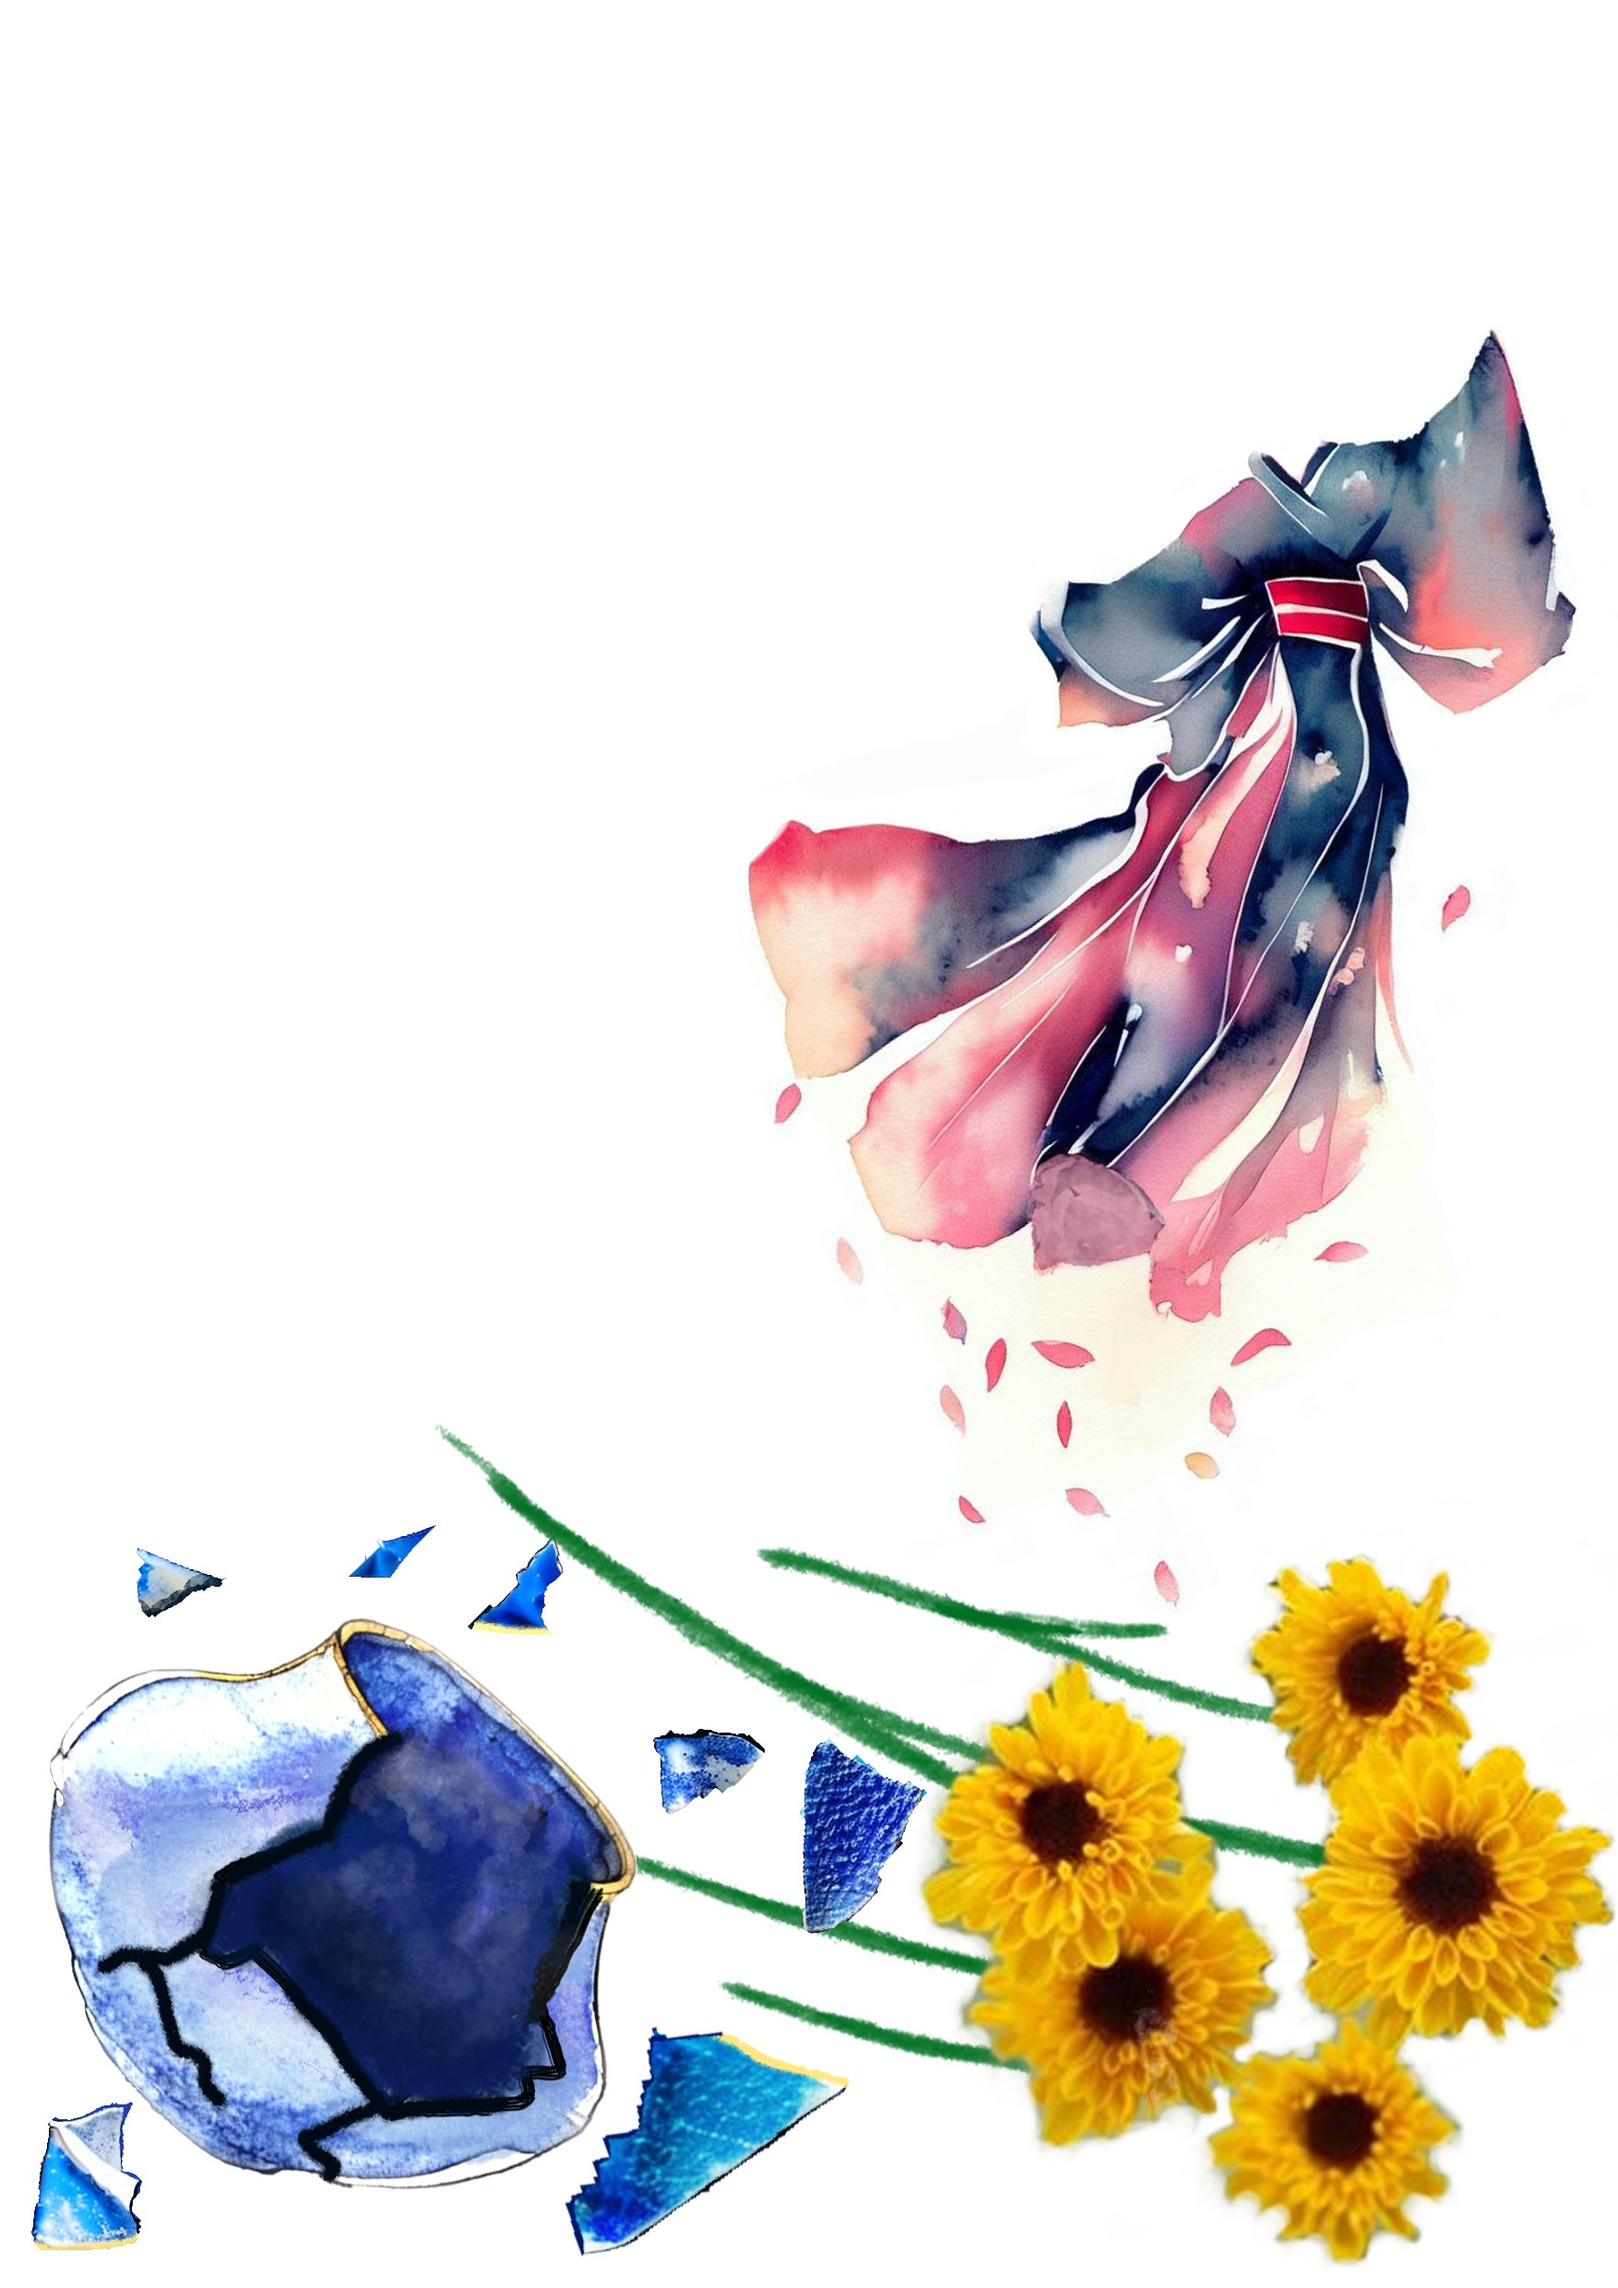
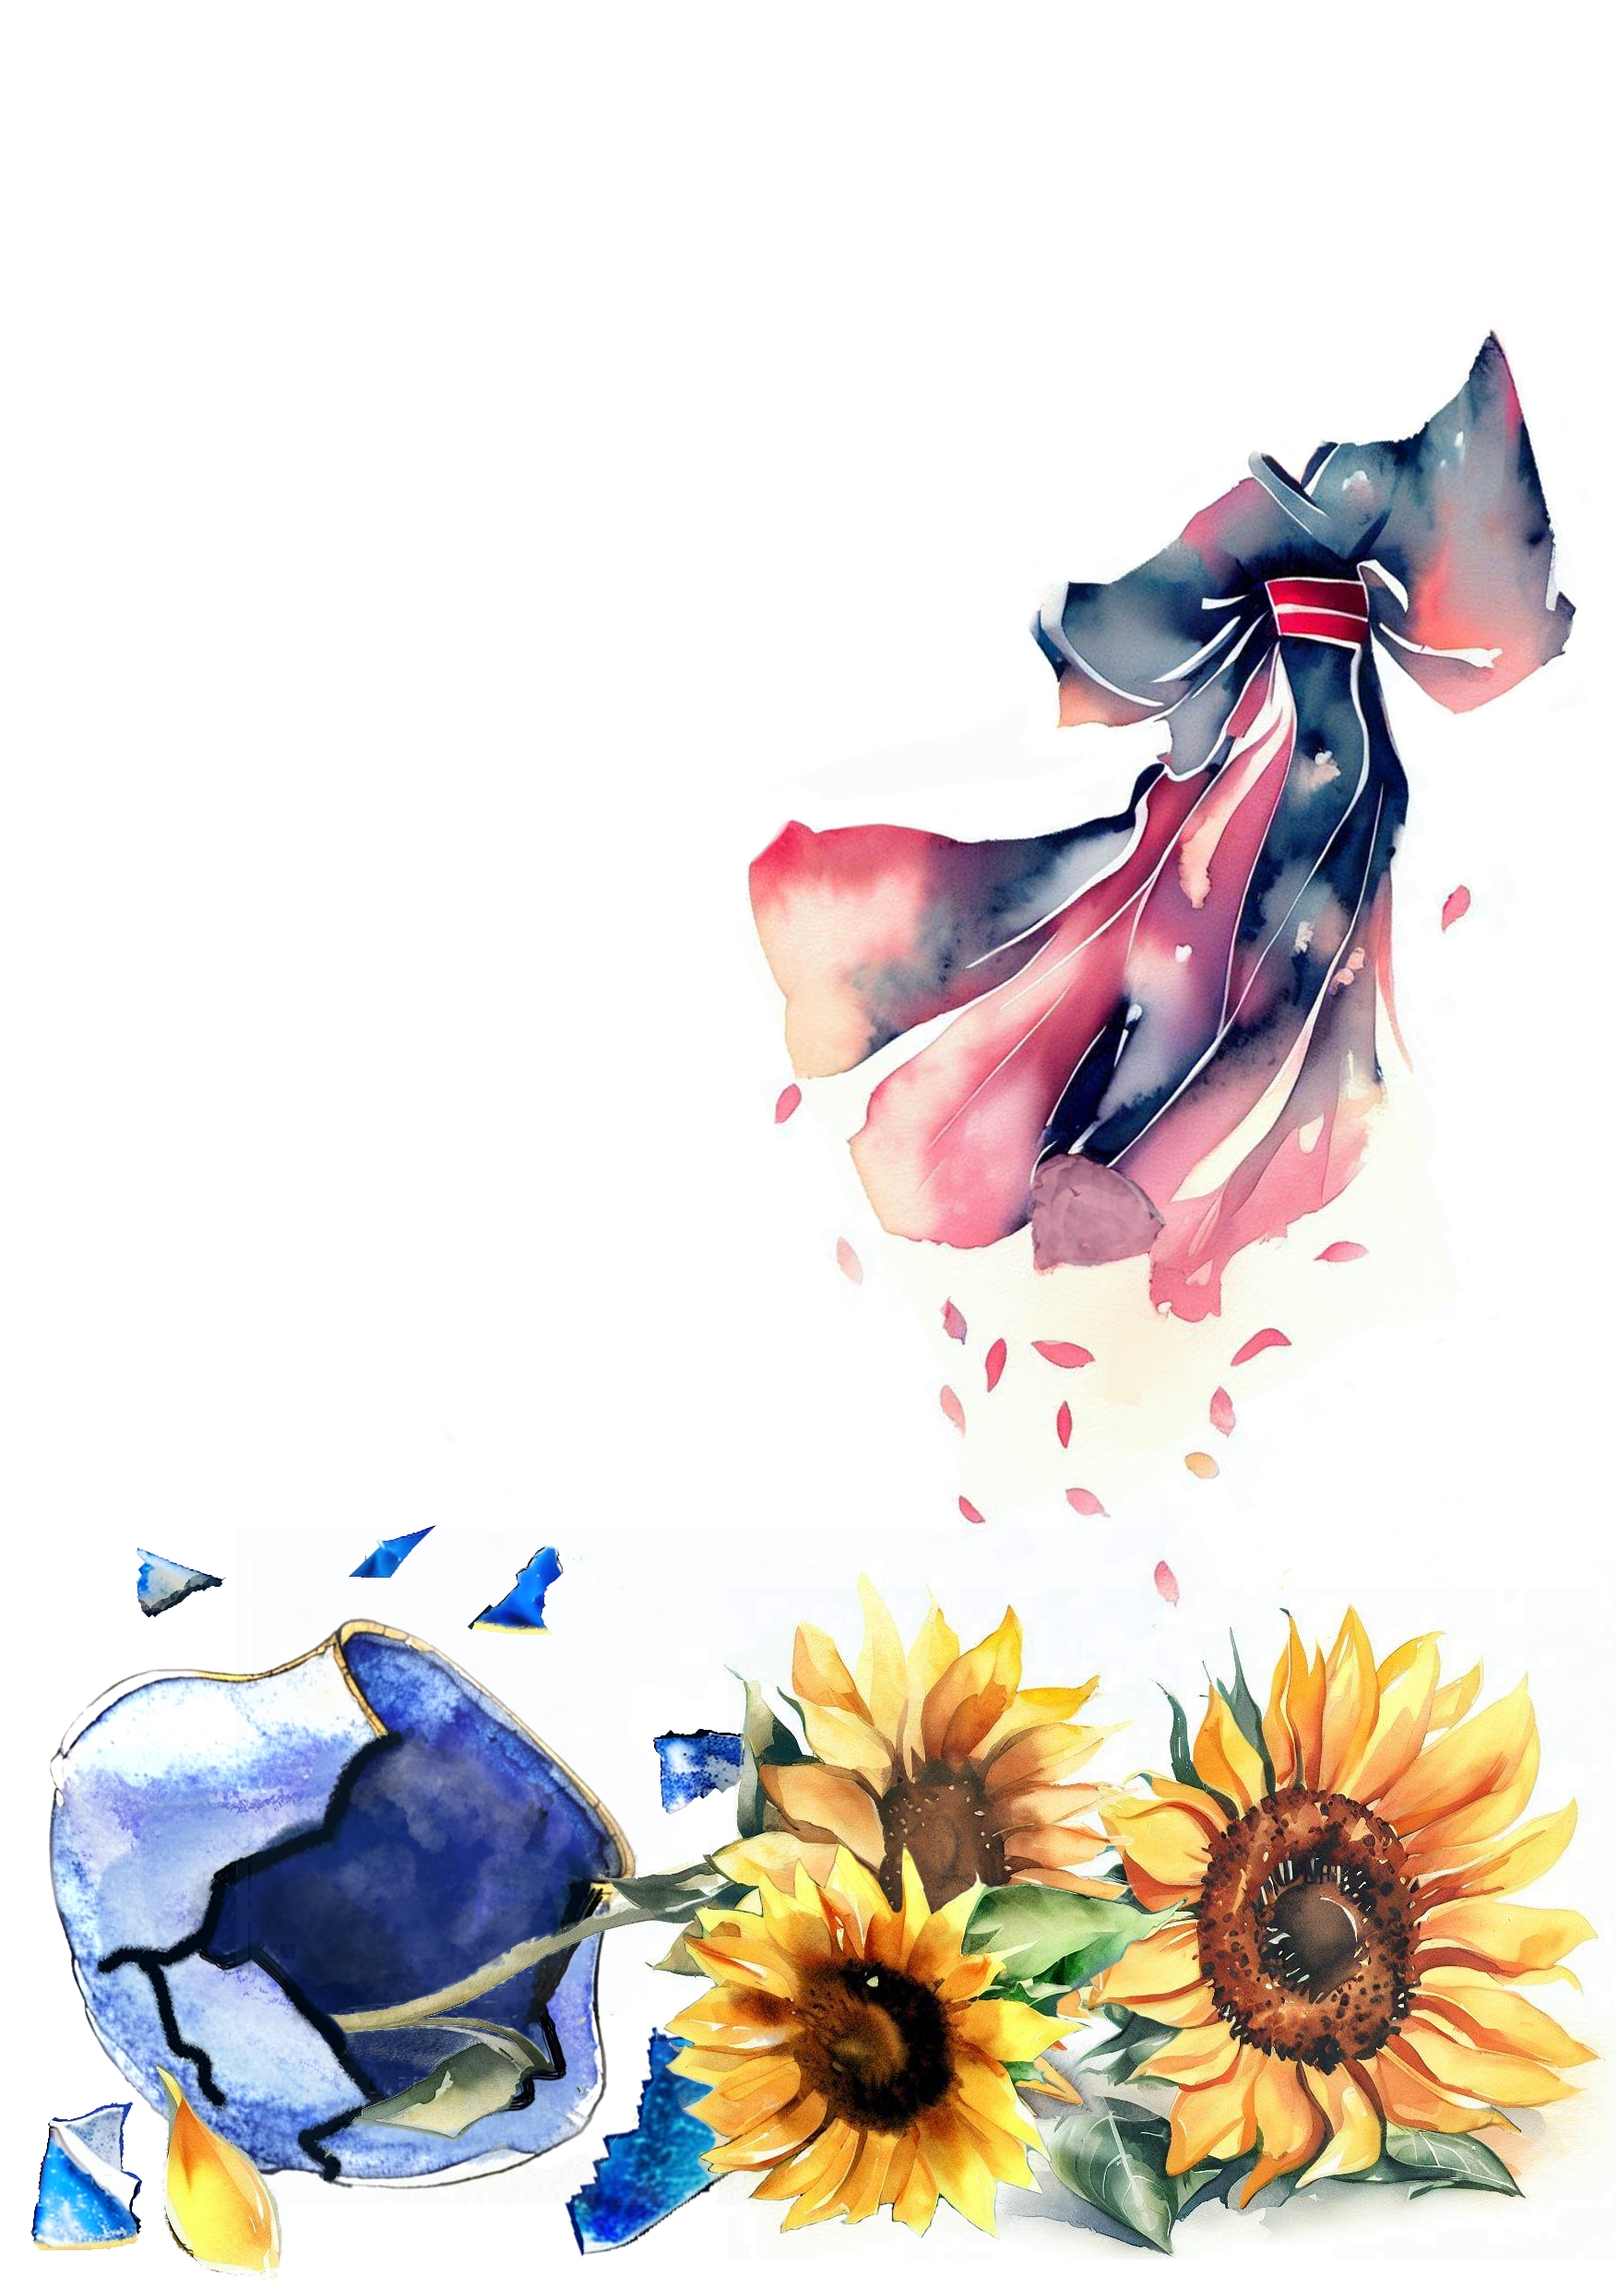
Improve Mitsumoto flowers + meditation collage outro

diff --git a/main.tex b/main.tex
@@ -623,14 +623,18 @@
 \end{center}
 \newpage
 
-\vspace{-2cm}
-\begin{center}
-\includegraphics[height=8cm]{images/vase-flowers-repaired} 
-\end{center}
+%\vspace{-2cm}
+%\begin{center}
+%\includegraphics[height=8cm]{images/vase-flowers-repaired} 
+%\end{center}
+%
+%\begin{center}
+%\includegraphics[height=8cm]{images/mitsumoto-front.jpg} 
+%\end{center}
 
-\begin{center}
-\includegraphics[height=8cm]{images/mitsumoto-front.jpg} 
-\end{center}
+\backgroundsetup{scale = 1, angle = 0, opacity = 1, contents = {\includegraphics[width = \paperwidth] {images/mitsumoto-flower-meditation-outro}}}
+\BgThispage
+\hfill
 
 \newpage
 
